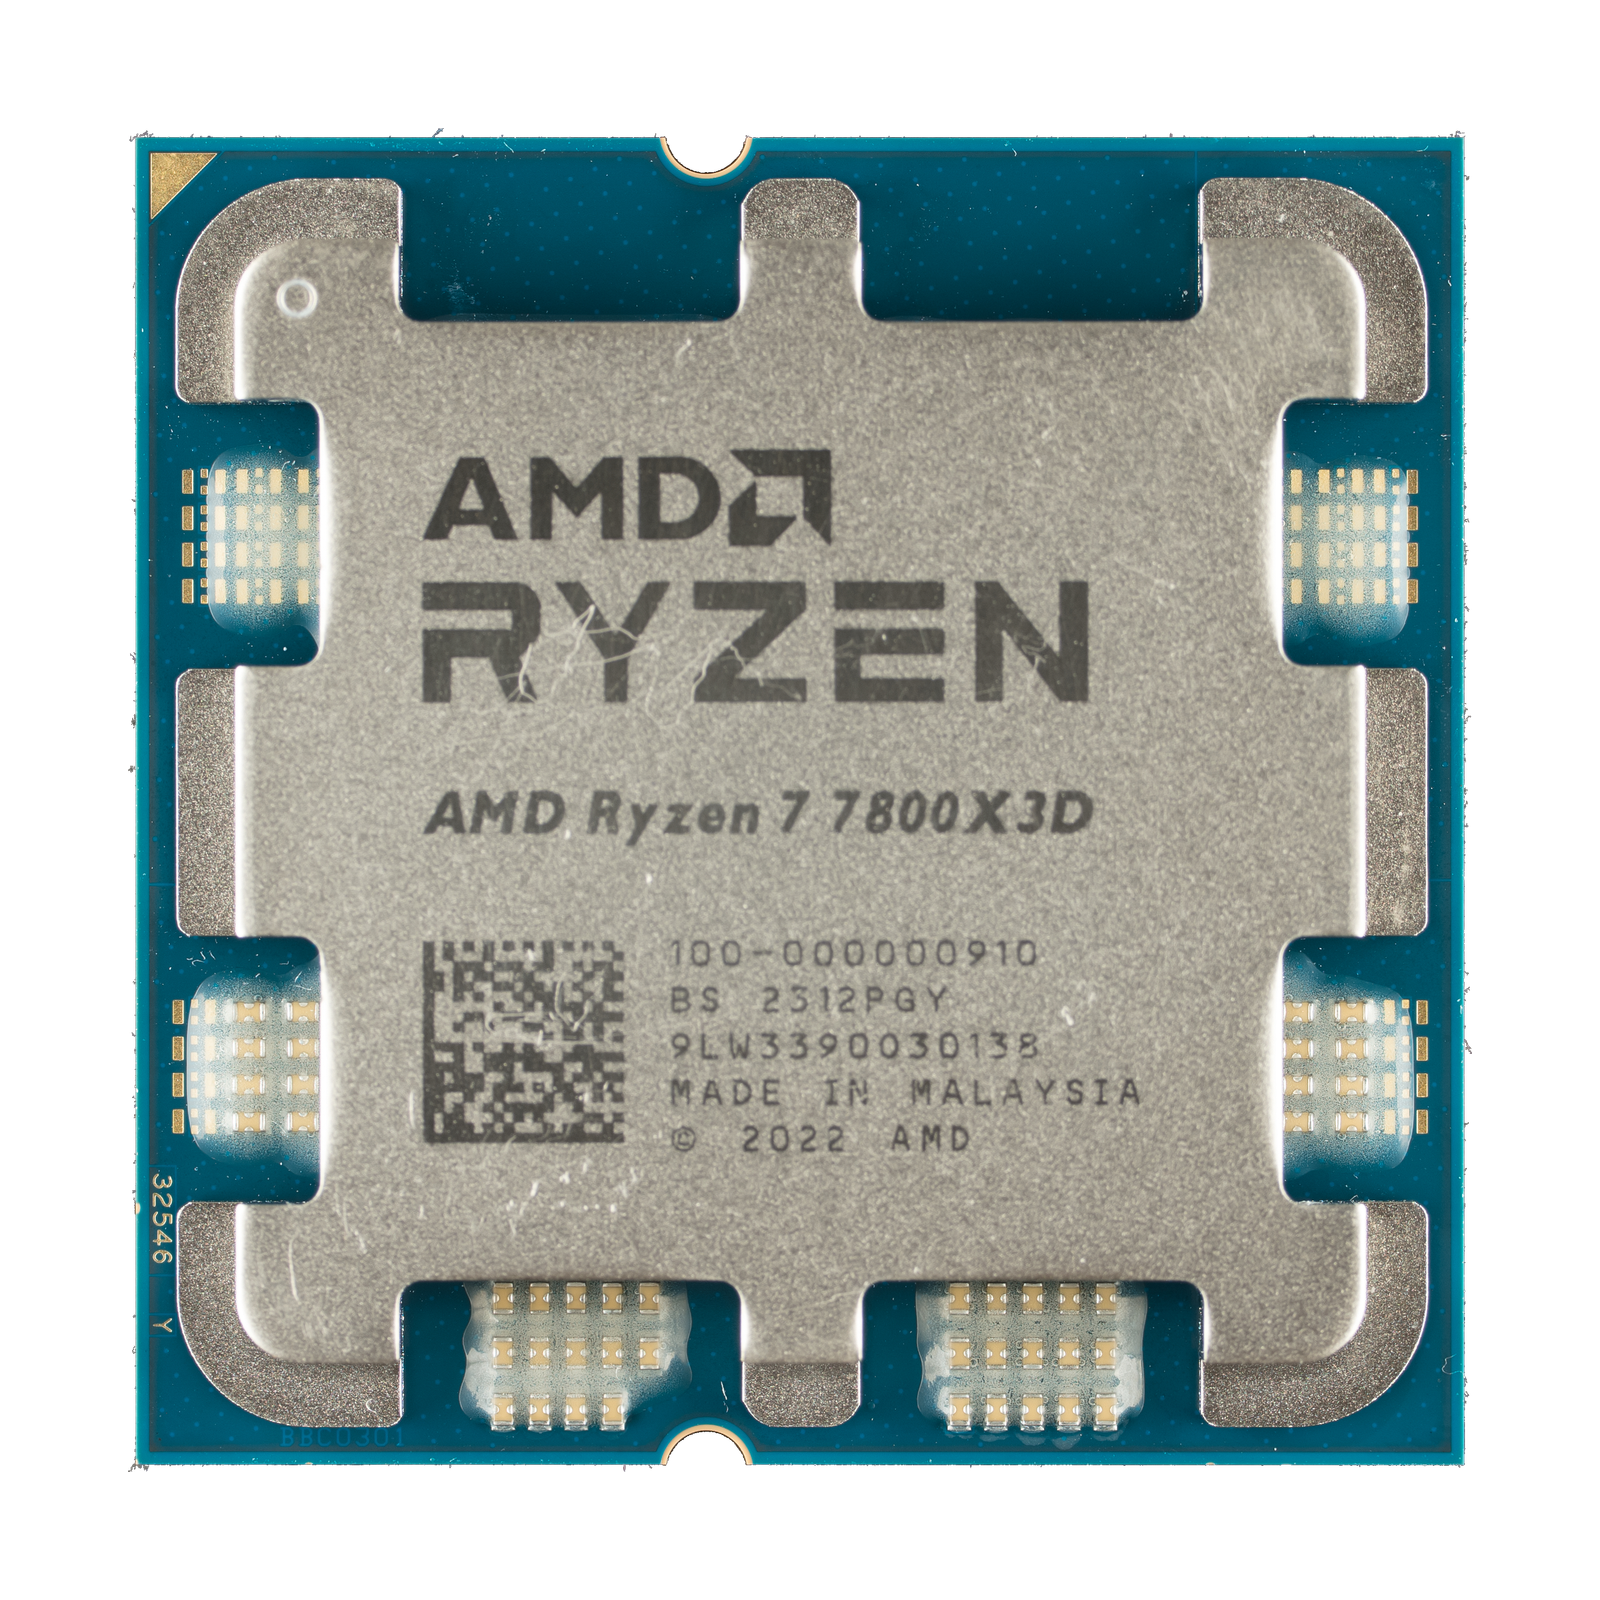
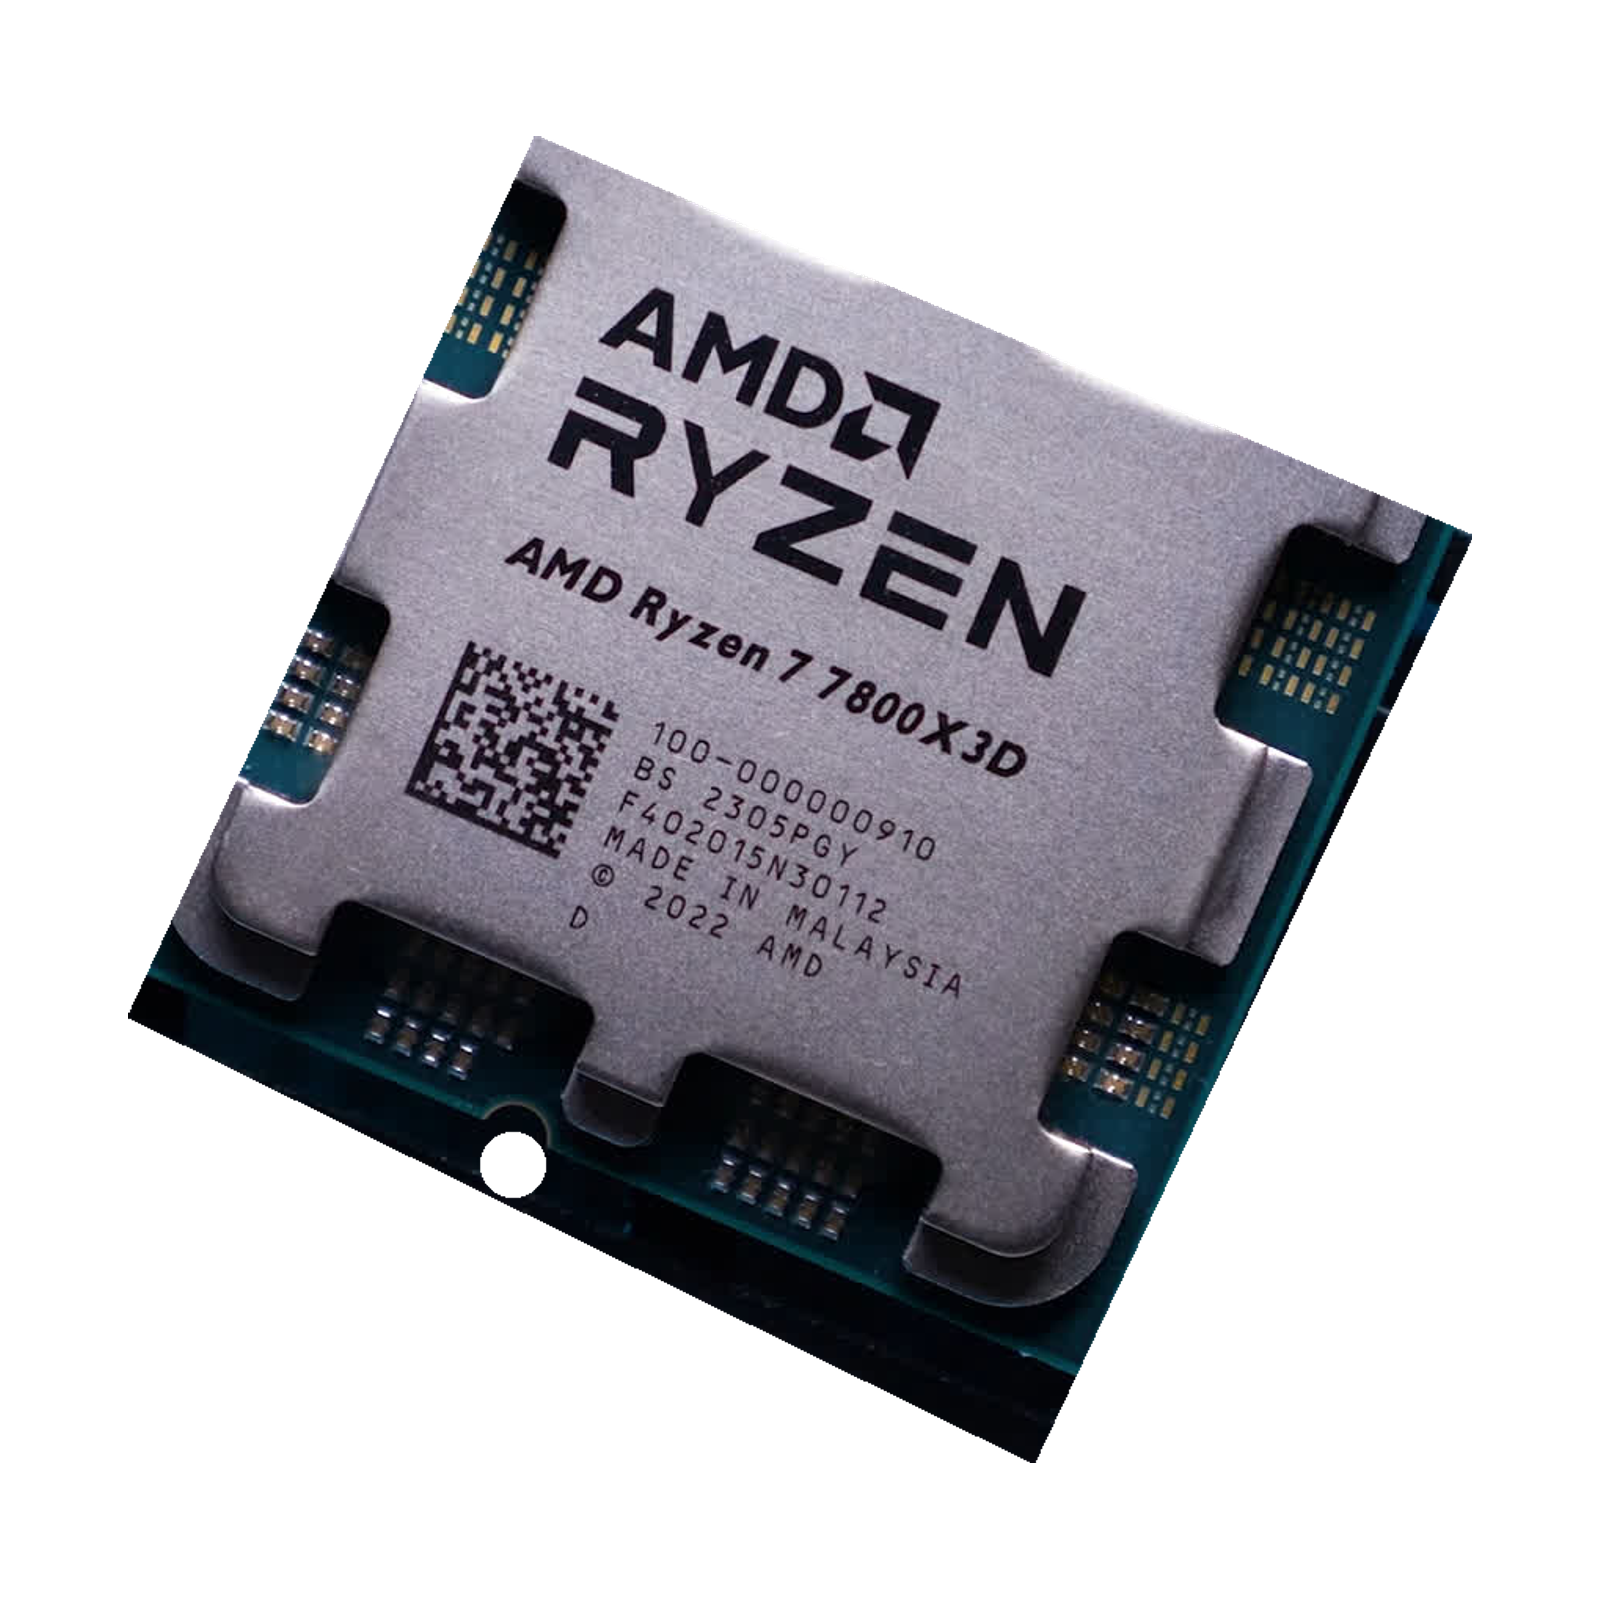
fix: replace contaminated 7800X3D source

diff --git a/tests/unit/product-cutout.test.ts b/tests/unit/product-cutout.test.ts
@@ -245,6 +245,7 @@ test('los recortes GPU revisados permiten una ampliación mínima y localizada',
 test('cada fuente de plataforma ampliada tiene un límite por slug medido y tolerado', () => {
   const expectedLimits = {
     'ryzen-7-9800x3d': 1.5,
+    'ryzen-7-7800x3d': 1.571,
     'core-ultra-7-265k': 1.34,
     'core-i5-14600k': 1.36,
     'msi-mag-b850-tomahawk-wifi': 1.94,
@@ -261,7 +262,7 @@ test('cada fuente de plataforma ampliada tiene un límite por slug medido y tole
     })
   }
 
-  for (const slug of ['ryzen-7-7800x3d', 'ryzen-5-9600x']) {
+  for (const slug of ['ryzen-5-9600x']) {
     expect(getProductCutoutPolicy(slug)).toEqual({
       canvas: 1600,
       occupancy: 0.84,

diff --git a/public/products/SOURCES.md b/public/products/SOURCES.md
@@ -12,7 +12,7 @@ Las páginas, créditos y archivos de origen se conservan a continuación.
 - `geforce-rtx-4060-8gb` — [MSI](https://www.msi.com/Graphics-Card/GeForce-RTX-4060-VENTUS-3X-8G/Gallery) — [archivo original](https://storage-asset.msi.com/global/picture/product/product_1689918265abde816554e825065034ba0b77b50c2c.webp)
 - `arc-b580-12gb` — [Intel](https://newsroom.intel.com/client-computing/intel-launches-arc-b-series-graphics-cards) — [archivo original](https://newsroom.intel.com/wp-content/uploads/2024/12/newsroom-intel-arc-b580-2.jpg)
 - `ryzen-7-9800x3d` — [PC Worth product photography](https://www.pcworth.com/product/ad36d3fe9a9b?slug=amd-ryzen-7-9800x3d-am5-without-cooler-tray-type) — [archivo original](https://production-rdj-web-asset.s3.ap-east-1.amazonaws.com/products/cpu/ecomm/4894/images/amd-ryzen-7-9800x3d-am5-without-cooler-tray-type-1771834093699C0AED0EFCD.png)
-- `ryzen-7-7800x3d` — [FritzchensFritz photograph via Wikimedia Commons (CC0)](https://commons.wikimedia.org/wiki/File:AMD%405nmCCD%286nmIOD%29%40Zen4%40Raphael%40Ryzen_7_7800X3D%40100-000000910_BS_2312PGY_9LW3390030138_DSCx01.jpg) — [archivo original](https://upload.wikimedia.org/wikipedia/commons/c/cd/AMD%405nmCCD%286nmIOD%29%40Zen4%40Raphael%40Ryzen_7_7800X3D%40100-000000910_BS_2312PGY_9LW3390030138_DSCx01.jpg)
+- `ryzen-7-7800x3d` — [TechSpot product photography](https://www.techspot.com/photos/article/2657-amd-ryzen-7800x3d/) — [archivo original](https://www.techspot.com/articles-info/2657/images/2023-04-05-image-6.jpg)
 - `ryzen-5-9600x` — [FritzchensFritz photograph via Wikimedia Commons (CC0)](https://commons.wikimedia.org/wiki/File:AMD%404nmCCD%286nmIOD%29%40Zen5%40Granite_Ridge%40Ryzen_5_9600X%40100-000001405_BY_2429SUY_9AEQ579S40073_DSCx01.jpg) — [archivo original](https://upload.wikimedia.org/wikipedia/commons/a/ac/AMD%404nmCCD%286nmIOD%29%40Zen5%40Granite_Ridge%40Ryzen_5_9600X%40100-000001405_BY_2429SUY_9AEQ579S40073_DSCx01.jpg)
[1 lines of base64/hex data omitted]
 - `core-i5-14600k` — [Xstore product photography](https://xstore.md/ru/komplektuyushhie-pk/processory/intel-core-i5-14600k) — [archivo original](https://xstore.md/images/product/2025/05/procesor-intel-core-i5-14600k-tray-xstore-md-41.webp)
